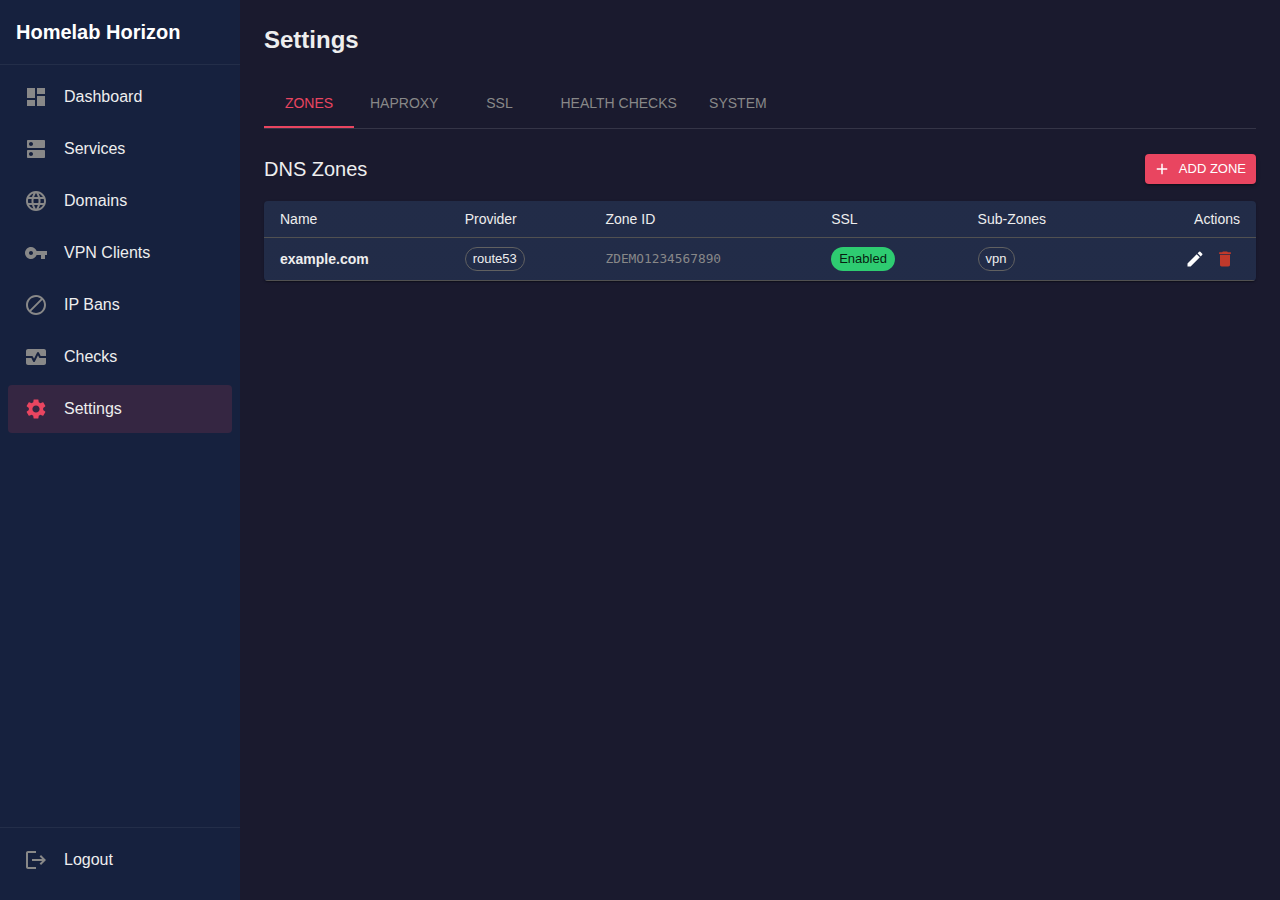
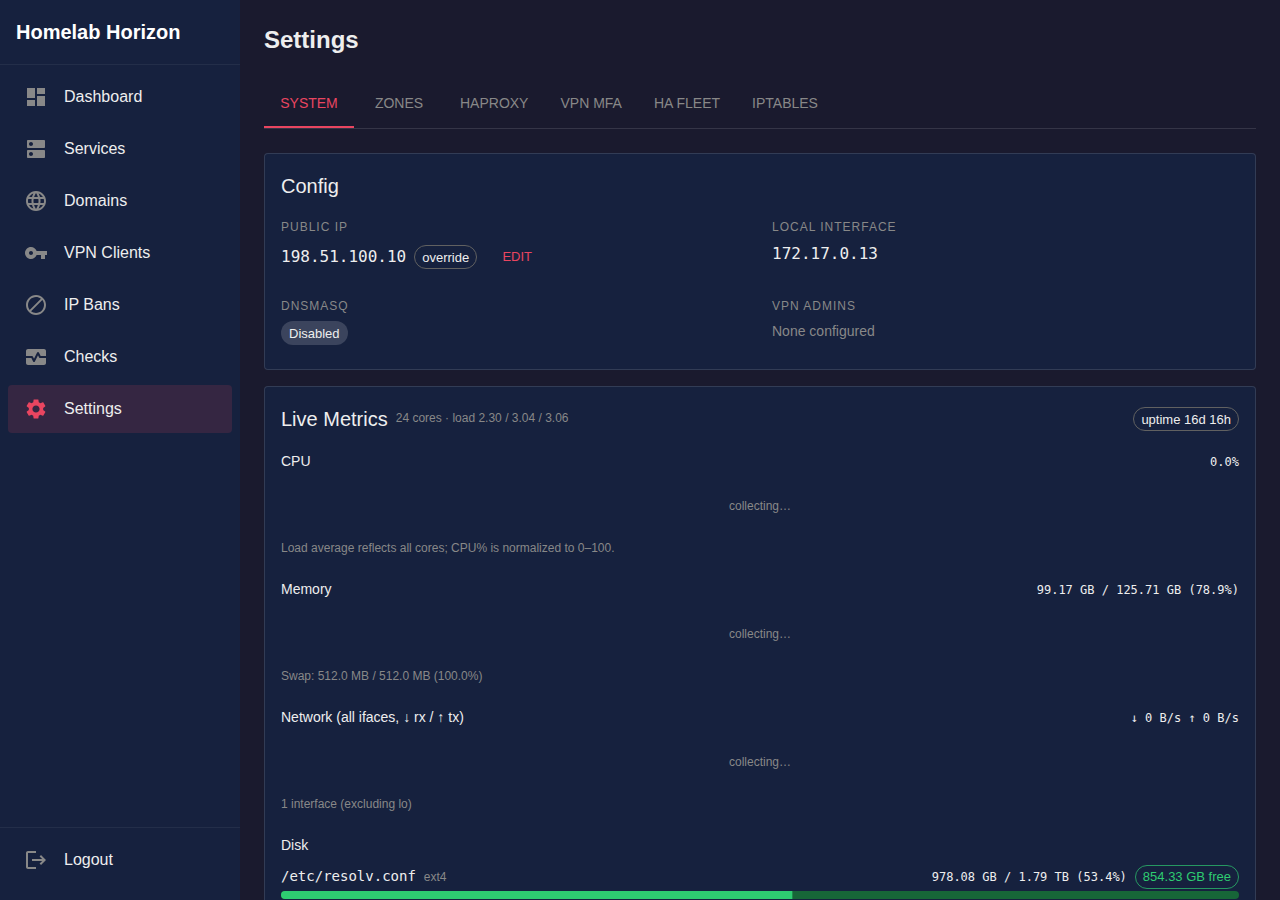
docs(readme): regenerate screenshots, add dashboard + port map
Refresh all screenshots from the demo config and add Dashboard and Port Map
sections. Note in the README how to regenerate them (make screenshots).

diff --git a/README.md b/README.md
@@ -27,14 +27,24 @@ Homelab Horizon consolidates all of this into a single web UI:
 
 ## Screenshots
 
+### Dashboard
+![Dashboard](docs/screenshots/dashboard.png)
+
 ### Services
 ![Services](docs/screenshots/services.png)
 
 ### Service Detail
 ![Service Detail](docs/screenshots/services-detail.png)
 
+### Port Map
+![Port Map](docs/screenshots/port-map.png)
+
 ### Settings
 ![Settings](docs/screenshots/settings.png)
+
+> Regenerate with `make screenshots` — boots a hermetic Docker container
+> (daemons off, RFC 5737 documentation IPs, no outbound network) and captures
+> these with Playwright. See [docs/take-screenshots.mjs](docs/take-screenshots.mjs).
 
 ## Features
 
